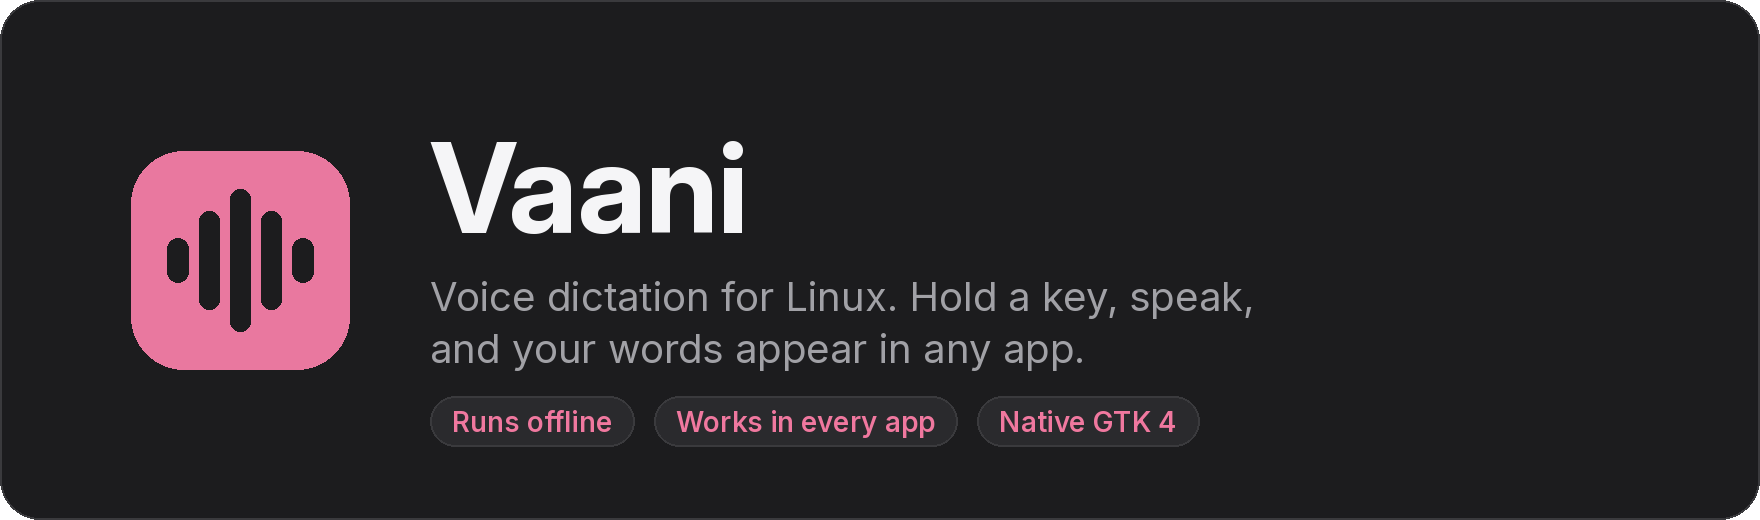
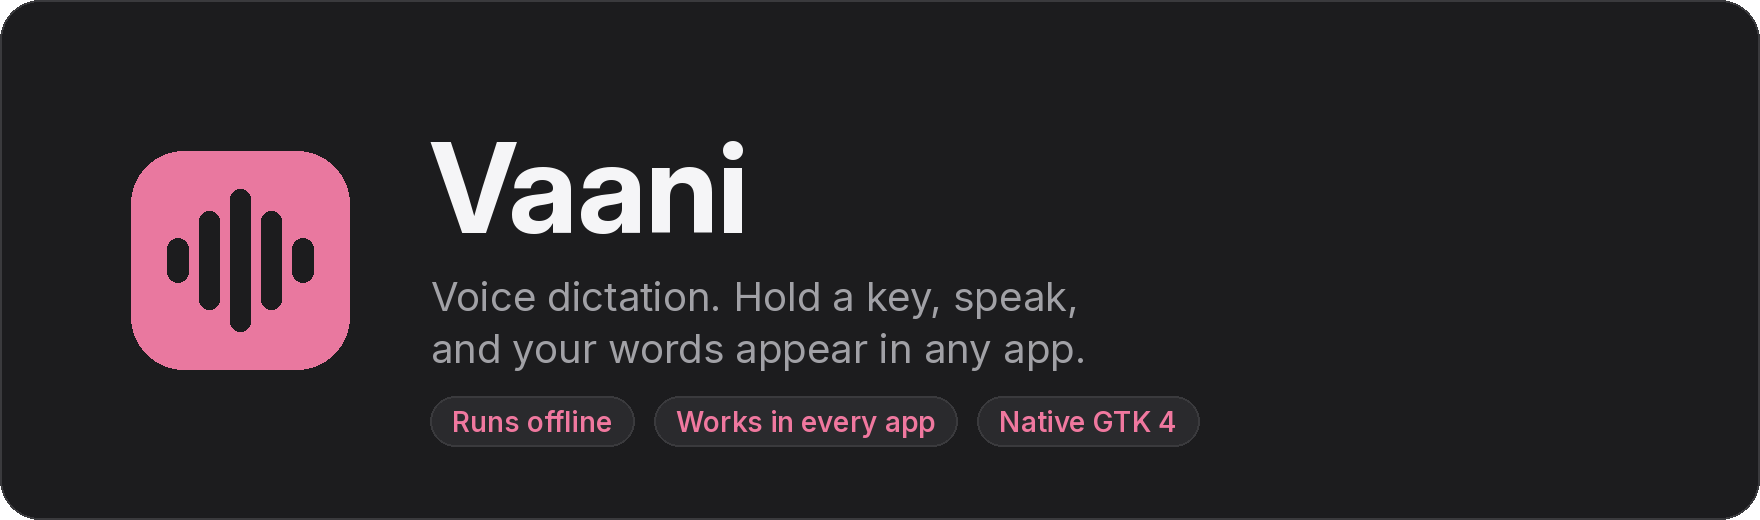
README: Linux and Windows, download buttons, Windows install and internals; one draft release with Linux and Windows files; version 0.5.0

diff --git a/README.md b/README.md
@@ -1,13 +1,13 @@
 <p align="center">
   <picture>
     <source media="(prefers-color-scheme: dark)" srcset="assets/readme/banner-dark.png">
-    <img src="assets/readme/banner-light.png" alt="Vaani: voice dictation for Linux" width="880">
+    <img src="assets/readme/banner-light.png" alt="Vaani: voice dictation" width="880">
   </picture>
 </p>
 
 <p align="center">
   <a href="https://github.com/sakshamm21/vaani/actions/workflows/ci.yml"><img src="https://img.shields.io/github/actions/workflow/status/sakshamm21/vaani/ci.yml?branch=main&style=flat-square&label=build&color=d6457a" alt="Build status"></a>
-  <img src="https://img.shields.io/badge/platform-Linux%20%C2%B7%20X11%20%C2%B7%20Wayland-1d1d1f?style=flat-square" alt="Platform: Linux, X11 and Wayland">
+  <img src="https://img.shields.io/badge/platform-Linux%20%C2%B7%20Windows-1d1d1f?style=flat-square" alt="Platform: Linux and Windows">
   <img src="https://img.shields.io/badge/made%20with-Rust%20%2B%20GTK%204-1d1d1f?style=flat-square" alt="Made with Rust and GTK 4">
   <a href="LICENSE"><img src="https://img.shields.io/badge/license-MIT-1d1d1f?style=flat-square" alt="License: MIT"></a>
 </p>
@@ -16,6 +16,12 @@
   <b>Hold a key, speak, let go.</b> Your words are typed into whatever app you're using:<br>
   a browser, an editor, a chat window or a terminal. Speech recognition runs on your own<br>
   computer by default, so your voice never leaves it.
+</p>
+
+<p align="center">
+  <a href="https://github.com/sakshamm21/Vaani/releases/latest"><img src="https://img.shields.io/badge/Download%20for-Linux-d6457a?style=for-the-badge" alt="Download for Linux"></a>
+  &nbsp;
+  <a href="https://github.com/sakshamm21/Vaani/releases/latest"><img src="https://img.shields.io/badge/Download%20for-Windows-d6457a?style=for-the-badge" alt="Download for Windows"></a>
 </p>
 
 <p align="center">
@@ -44,7 +50,8 @@
 - **Live preview.** The words appear above the recording pill while you speak.
 - **Text tools.** Filler-word removal, spoken punctuation, replacements, snippets, optional
   AI clean-up, command mode for rewriting a selection, and per-app rules.
-- **X11 and Wayland.** GNOME, KDE Plasma, Hyprland, sway, Cinnamon and other desktops.
+- **Linux and Windows.** X11 and Wayland (GNOME, KDE Plasma, Hyprland, sway, Cinnamon and
+  others), and Windows 10 and 11.
 - **Native and light.** Rust and GTK 4. About 115 MB of memory and no CPU when idle; the
   default model adds about 850 MB.
 
@@ -76,21 +83,37 @@
 
 | | |
 | --- | --- |
-| System | Linux on x86-64, with X11 or Wayland |
-| Packages for | Debian 12, Ubuntu 22.04+, Linux Mint 21+, Pop!_OS, Fedora, openSUSE Tumbleweed and Leap 15.6, Arch |
+| System | Linux on x86-64 with X11 or Wayland, or Windows 10 (1809 or later) or 11 on x64 |
+| Linux packages for | Debian 12, Ubuntu 22.04+, Linux Mint 21+, Pop!_OS, Fedora, openSUSE Tumbleweed and Leap 15.6, Arch |
 | Memory | About 1 GB free with the default model; 115 MB with a cloud engine |
-| Disk | 46 MB for the app, plus 100 MB to 1.9 GB per model |
+| Disk | 46 MB for the app on Linux, about 150 MB on Windows, plus 100 MB to 1.9 GB per model |
 | Other | A microphone; internet for the first model download |
 
-### Release packages
+### Windows
+
+Download `vaani-0.5.0-windows-x64-setup.exe` from the
+[latest release](https://github.com/sakshamm21/Vaani/releases/latest) and run it. It installs
+for your user only, so it needs no administrator rights, and adds Vaani to the Start menu.
+
+The installer is not code-signed yet, so Windows SmartScreen may say it "protected your PC".
+Click **More info**, then **Run anyway**. `SHA256SUMS-windows` lists the checksum of each file.
+
+Then start **Vaani** from the Start menu and hold **Right Ctrl**. To uninstall, use
+**Settings → Apps → Installed apps → Vaani**; it asks whether to keep your settings, history
+and models.
+
+For a portable copy, unpack `vaani-0.5.0-windows-x64-portable.zip` anywhere and run
+`bin\vaani.exe`.
+
+### Linux packages
 
 Download the package for your distribution from the
 [latest release](https://github.com/sakshamm21/Vaani/releases/latest) and install it:
 
 ```sh
-sudo apt install ./vaani_0.4.0_amd64.deb                                 # Debian, Ubuntu, Mint, Pop!_OS
-sudo dnf install ./vaani-0.4.0-1.x86_64.rpm                              # Fedora
-sudo zypper install --allow-unsigned-rpm ./vaani-0.4.0-1.x86_64.rpm      # openSUSE
+sudo apt install ./vaani_0.5.0_amd64.deb                                 # Debian, Ubuntu, Mint, Pop!_OS
+sudo dnf install ./vaani-0.5.0-1.x86_64.rpm                              # Fedora
+sudo zypper install --allow-unsigned-rpm ./vaani-0.5.0-1.x86_64.rpm      # openSUSE
 ```
 
 On Arch, build the `vaani-bin` package from the release's `PKGBUILD`:
@@ -108,11 +131,11 @@ The packages set everything up, Wayland included: nothing to add to a group, no 
 setting to change, no need to log out or restart. On GNOME and KDE Plasma the desktop asks
 once to confirm Vaani's shortcut.
 
-Other distributions can use `vaani-0.4.0-x86_64-linux.tar.gz`: unpack it and run
+Other distributions can use `vaani-0.5.0-x86_64-linux.tar.gz`: unpack it and run
 `./install.sh` to install under `~/.local` (it needs GTK 4 and ALSA). `SHA256SUMS` lists the
 checksum of every file.
 
-### From source
+### From source (Linux)
 
 ```sh
 git clone https://github.com/sakshamm21/Vaani.git
@@ -147,13 +170,14 @@ inserted, so nothing is lost if an app refuses the text.
 
 Vaani is a Cargo workspace of small crates. One background process (`vaani run`) owns the
 shortcut, microphone, clipboard and user interface; speech recognition runs in a supervised
-child process; the command line and other tools talk to the running instance over D-Bus.
+child process; the command line and other tools talk to the running instance over D-Bus on
+Linux and a named pipe on Windows.
 
 ```mermaid
 flowchart LR
     subgraph app["vaani (background process)"]
         direction TB
-        HK["vaani-hotkey<br/>XInput2, evdev, portal"] --> CT["controller<br/>state machine"]
+        HK["vaani-hotkey<br/>XInput2, evdev, portal,<br/>Windows keyboard hook"] --> CT["controller<br/>state machine"]
         AU["vaani-audio<br/>capture, 16 kHz"] --> CT
         CT --> TX["vaani-text<br/>clean-up rules"]
         TX --> LM["vaani-llm<br/>optional AI clean-up"]
@@ -163,7 +187,7 @@ flowchart LR
     end
     CT <-->|"postcard frames<br/>stdin/stdout"| WK["vaani-worker<br/>sherpa-onnx model"]
     CT -->|HTTPS| CL["Cloud API<br/>(your key)"]
-    CLI["vaani CLI"] -->|D-Bus| CT
+    CLI["vaani CLI"] -->|"D-Bus or named pipe"| CT
     IN --> APP["Focused app"]
     classDef accent fill:#d6457a,stroke:#d6457a,color:#fff
     class CT,WK accent
@@ -209,7 +233,9 @@ sequenceDiagram
   preview so the cloud result is never delayed.
 - **Insertion.** Vaani puts the text on the clipboard, presses the app's paste key, watches for
   the app to read it, then restores your clipboard. If the app ignores the paste, the text is
-  typed key by key. Terminals get Ctrl+Shift+V; unknown apps get Shift+Insert.
+  typed key by key. Terminals get Ctrl+Shift+V; unknown apps get Shift+Insert. On Windows the
+  clipboard is offered with delayed rendering, so Vaani knows the moment the app reads it, and
+  the text is kept out of clipboard history.
 - **Fallbacks.** A dictation made while the model loads waits for it; a failed cloud request
   falls back to an installed local model; anything that can't be inserted stays on the
   clipboard and in History.
@@ -220,15 +246,15 @@ sequenceDiagram
 
 | Crate | Role |
 | --- | --- |
-| `vaani-app` | The `vaani` binary: controller, GTK 4 pill and settings, tray (StatusNotifierItem), D-Bus service, CLI |
+| `vaani-app` | The `vaani` binary: controller, GTK 4 pill and settings, tray (StatusNotifierItem or notification area), D-Bus or named-pipe service, CLI |
 | `vaani-worker` | Speech recognition process (sherpa-onnx) |
 | `vaani-stt` | Engine interface, worker client and protocol, cloud providers |
 | `vaani-audio` | Microphone capture (cpal), resampling to 16 kHz (rubato), sound cues |
-| `vaani-hotkey` | Global shortcut: X11 XInput2, evdev, GlobalShortcuts portal, Hyprland binding |
-| `vaani-inject` | Text insertion: X11 selections and XTest; Wayland data-control and uinput |
+| `vaani-hotkey` | Global shortcut: X11 XInput2, evdev, GlobalShortcuts portal, Hyprland binding, Windows low-level keyboard hook |
+| `vaani-inject` | Text insertion: X11 selections and XTest; Wayland data-control and uinput; Windows clipboard and SendInput |
 | `vaani-text` | Rule-based clean-up, spoken commands, replacements, snippets, Hindi transliteration |
 | `vaani-llm` | Optional AI clean-up and command mode, with output guardrails |
-| `vaani-store` | History (SQLite) and API keys (Secret Service) |
+| `vaani-store` | History (SQLite) and API keys (Secret Service or Windows Credential Manager) |
 | `vaani-models` | Model catalogue (`models/registry.toml`), downloads and checksums |
 | `vaani-core` | Configuration schema and migration, state machine, paths |
 | `vaani-platform` | Session, desktop and capability detection |
@@ -242,6 +268,10 @@ sequenceDiagram
 | **KDE Plasma 6** | GlobalShortcuts portal, Ctrl+Alt+Space by default | ext data-control clipboard, `/dev/uinput` paste key | Through XWayland |
 | **Hyprland** | Portal shortcut bound by Vaani through Hyprland's socket; Right Ctrl by default | wlr data-control clipboard, `/dev/uinput` paste key | Through XWayland |
 | **sway** | `input` group (evdev) or `bindsym … exec vaani toggle` | wlr data-control clipboard, `/dev/uinput` paste key | Through XWayland |
+| **Windows 10 and 11** | Low-level keyboard hook; any supported key | Delayed-render clipboard and `SendInput` paste key | Topmost tool window that never takes focus |
+
+On Windows nothing needs setting up. An app running as administrator can't receive keys from
+a normal app, so to dictate into one, run Vaani as administrator too.
 
 On every Wayland desktop, joining the `input` group (`sudo usermod -aG input $USER`, then log
 in again) lets Vaani read the keyboard directly, so any key works, including a lone Right Ctrl.
@@ -293,8 +323,8 @@ model is a data change.
 | OpenAI-compatible | set by you | Any `/v1/audio/transcriptions` server, such as a local faster-whisper |
 
 Add a key on the **Cloud** page. Keys are stored through the Secret Service API (GNOME Keyring,
-KWallet) and never written to the config file. **Keep everything on this computer** turns
-cloud recognition off entirely.
+KWallet) on Linux and in Windows Credential Manager, and never written to the config file.
+**Keep everything on this computer** turns cloud recognition off entirely.
 
 ## Text processing
 
@@ -396,6 +426,10 @@ whether from the settings window or a text editor.
 | `~/.local/state/vaani/logs/` | Logs, kept for seven days; no transcript text at the default level |
 | `~/.config/autostart/io.github.sakshamm21.Vaani.desktop` | Autostart entry |
 
+On Windows, settings are in `%APPDATA%\sakshamm21\vaani\config\`; models, history and logs
+in `%LOCALAPPDATA%\sakshamm21\vaani\data\`; the autostart entry is the `Vaani` value under
+`HKCU\Software\Microsoft\Windows\CurrentVersion\Run`.
+
 No accounts, analytics or telemetry. With a local model, the only network requests are model
 downloads from the [sherpa-onnx releases](https://github.com/k2-fsa/sherpa-onnx/releases).
 Audio is kept in memory and never written to disk. Cloud recognition sends audio, and AI
@@ -412,9 +446,10 @@ text-insertion status; include it in bug reports.
 | Text not inserted in one app | It is on the clipboard and in History; press Ctrl+V. Please open an issue naming the app, with `vaani doctor` output. |
 | Poor or empty transcription | Pick the right microphone under **General**; lower the input volume if it clips; for other languages, use Whisper with the language set. |
 | First dictation is slow | The model takes 3 to 6 s to load at start; dictations made meanwhile wait for it. |
-| No tray icon | The desktop needs a StatusNotifierItem host; on GNOME, the AppIndicator extension. Use `vaani settings` meanwhile. |
+| No tray icon | The desktop needs a StatusNotifierItem host; on GNOME, the AppIndicator extension. On Windows, look under the taskbar's **^** overflow arrow. Use `vaani settings` meanwhile. |
 
-For detailed logs: `vaani quit`, then `VAANI_LOG=debug vaani run`.
+For detailed logs: `vaani quit`, then `VAANI_LOG=debug vaani run` (on Windows, in PowerShell:
+`$env:VAANI_LOG="debug"; vaani run`).
 
 ## Development
 
@@ -452,14 +487,25 @@ cargo test --workspace
 **Packaging.** `scripts/package.sh` builds the `.deb`, `.rpm`, tarball, `PKGBUILD` and
 `SHA256SUMS` into `dist/`. CI builds them on Ubuntu 22.04 (for the oldest supported glibc),
 installs each one in Debian, Ubuntu, Fedora, openSUSE and Arch containers, and runs the
-source install script on Fedora, Arch and Tumbleweed. Pushing a `v*` tag publishes a release.
+source install script on Fedora, Arch and Tumbleweed.
+
+**Windows.** Build with the MSVC toolchain and the [gvsbuild](https://github.com/wingtk/gvsbuild)
+GTK 4 bundle: unpack it, put its `bin` on `PATH`, point `PKG_CONFIG_PATH` at its
+`lib\pkgconfig`, and run `cargo build --release`. `scripts/package-windows.ps1` gathers the
+GTK DLLs, icons and pixbuf loaders, then builds the portable zip and the Inno Setup installer
+(`packaging/windows/vaani.iss`). CI does this on `windows-latest` and runs
+`scripts/windows-smoke-test.ps1`: a silent install, a dictation of a recorded sentence into
+Notepad with Right Ctrl, the command line, and a silent uninstall.
+
+Pushing a `v*` tag builds every package and creates one draft release with the Linux and
+Windows files.
 
 **Contributing.** Issues and pull requests are welcome; for larger changes, open an issue
 first. Keep changes covered by the checks above.
 
 ## Roadmap
 
-- Windows
+- Code-signed Windows installer
 - Flatpak and AppImage packages
 
 ## License
